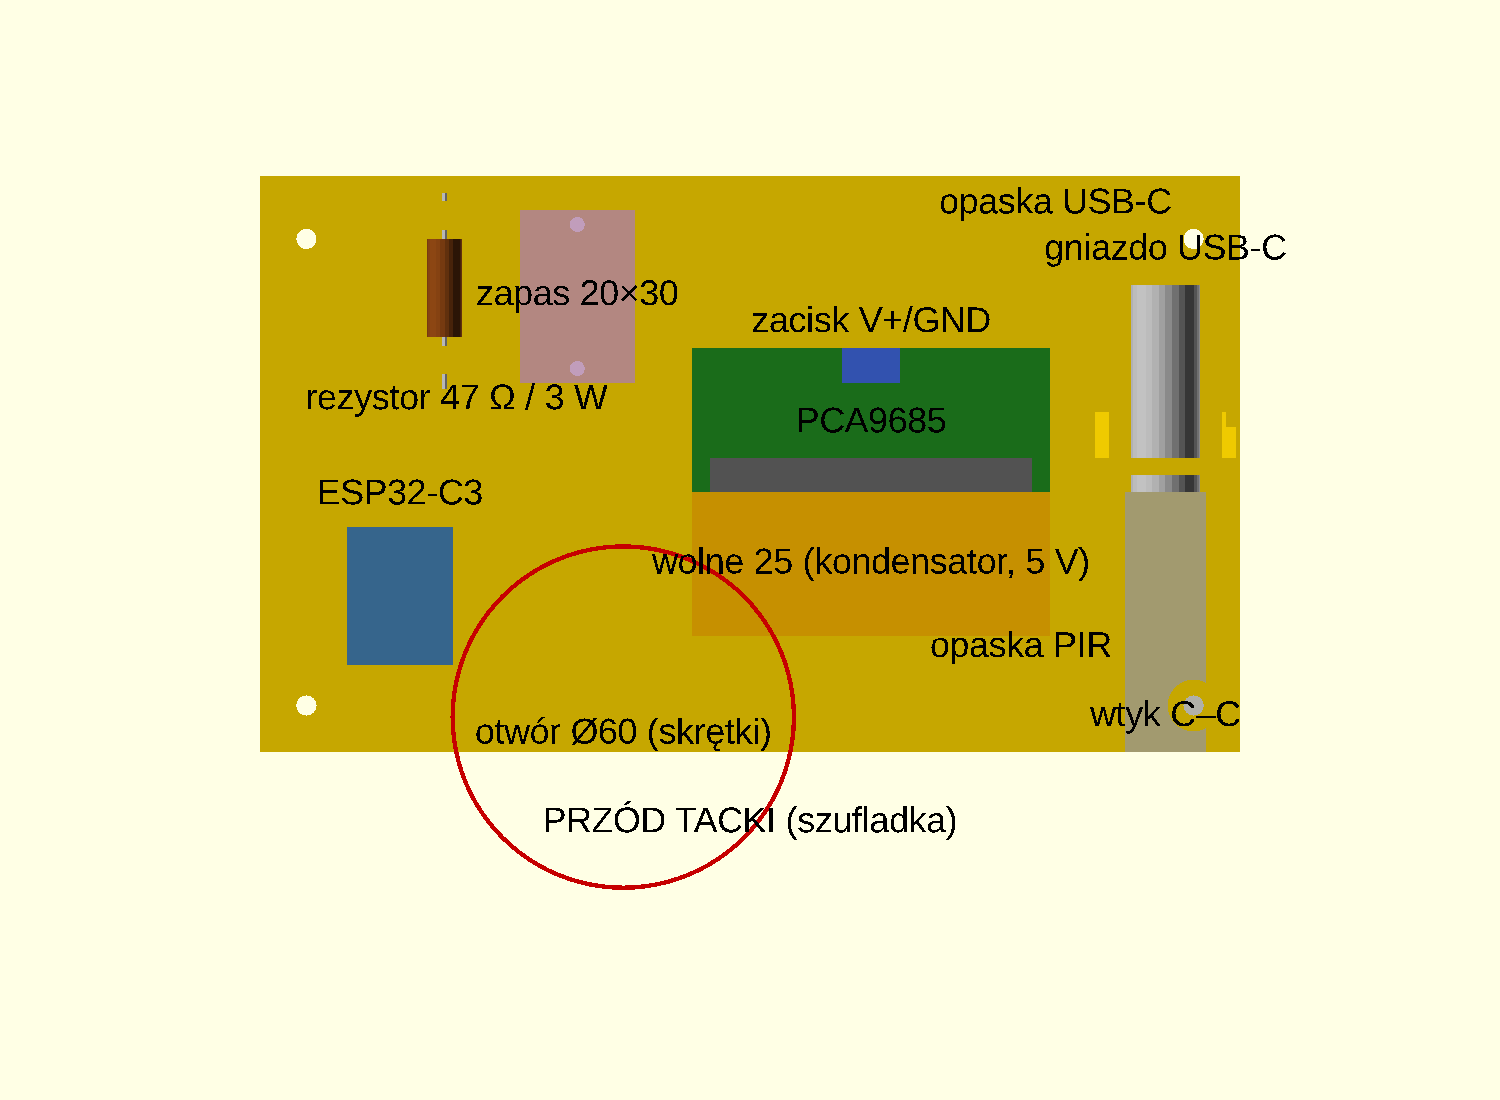
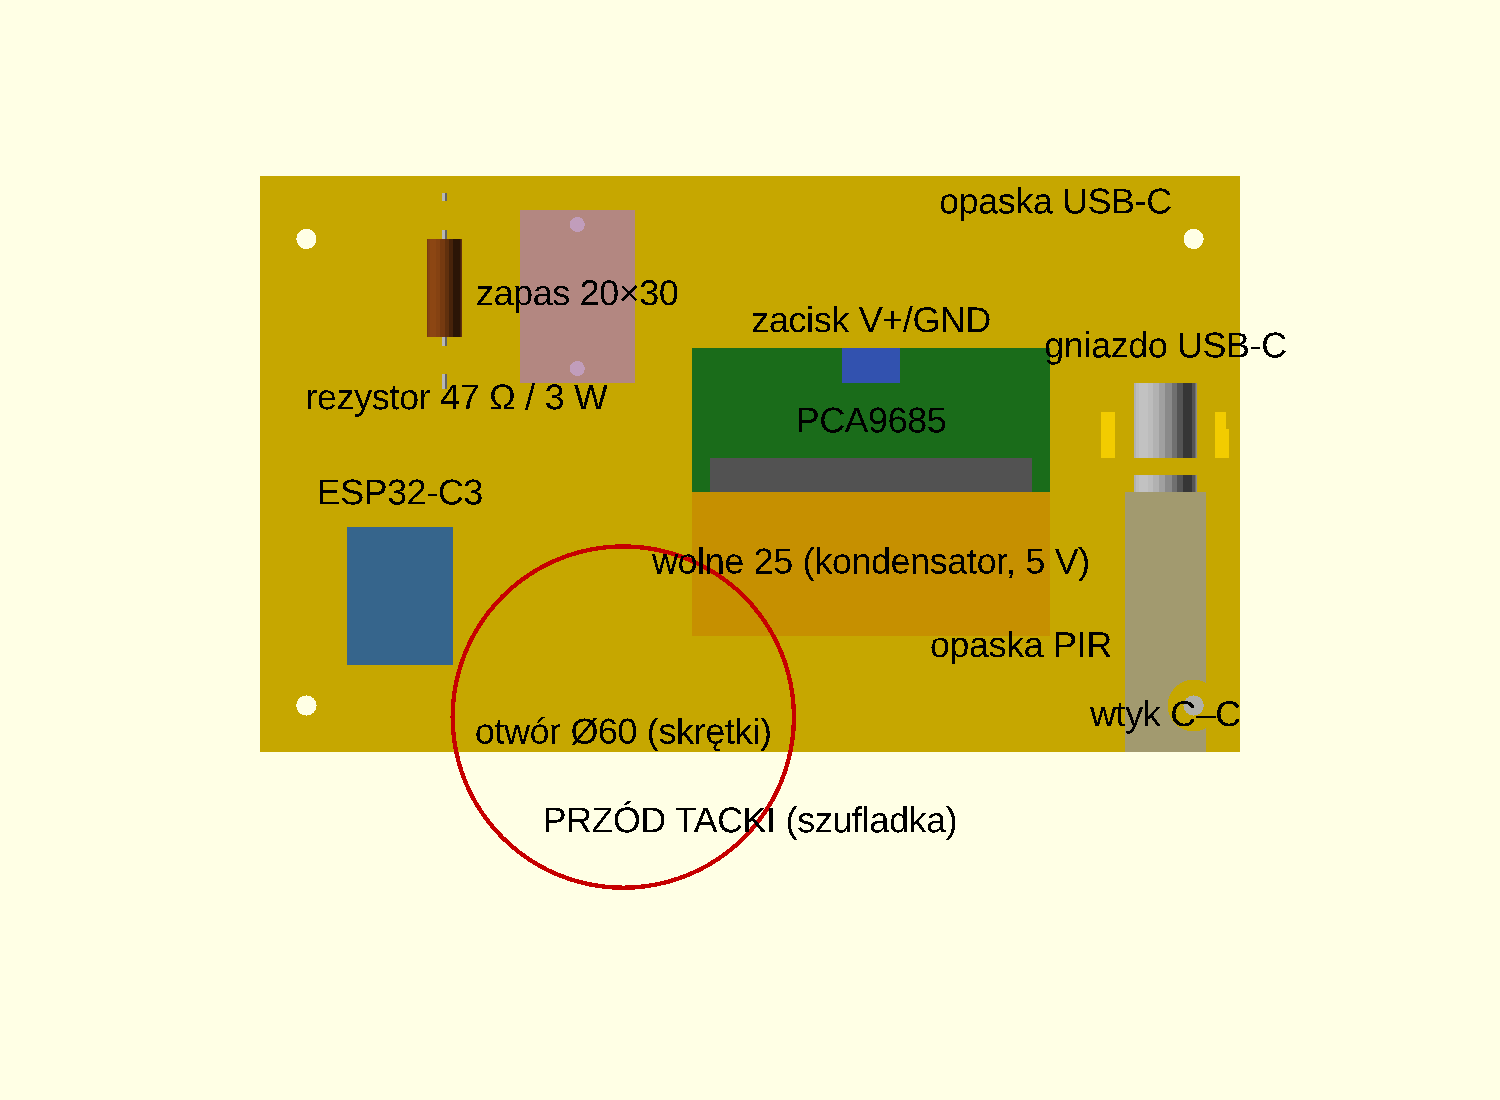
Tacka elektroniki: otwór „podwójne D” 11,3 / 10,3 pod zmierzone gniazdo USB-C (kołnierz 14, korpus 13) – tacka gotowa do druku
Siatka OK, kolizje: pusto.

Changed region(s): [[0.7053, 0.2164, 0.8587, 0.4327]]

diff --git a/20-analizy/2026-10-25-podstawka-model.md b/20-analizy/2026-10-25-podstawka-model.md
@@ -300,7 +300,7 @@ Użytkownik: „nie podobają mi się te śruby z boku za bardzo, może na takie
 
 Uwaga dla PM (agent): na zdjęciach z kamery jest też kątowy adapter USB-C (10 × 15 mm) wpięty w powerbank. Jeśli to docelowe połączenie, wtyk zajmuje dużo mniej niż przyjęte 50 mm – decyzja użytkownika (PRD).
 
-### Tacka elektroniki (kaseta) v2 (26.10) – NIE DRUKOWAĆ przed pomiarem gniazda USB-C
+### Tacka elektroniki (kaseta) v2 (26.10)
 
 Ustalenia sesji elektroniki z użytkownikiem (wiadomości do wykonawcy montażu 26.10; wcześniej tacka v1 nie była wydrukowana):
 - zasilanie z panelowego gniazda USB-C wkręcanego (okrągłe, gwint z nakrętką, gumowa zaślepka, 2 przewody z tyłu) zamiast płaskiego breakoutu;
@@ -332,3 +332,13 @@ Kontrole: siatka OK, kolizje szufladki z tacką: pusto. Wymiary płytek i gniazd
 - **ESP32-C3 z pinami w dół (elektronika 26.10, zdjęcie użytkownika: piny przylutowane w dół, wtyki Dupont od spodu):** płaską ramkę v1 zastąpiłem podstawką z 2 podpórek 10 × 16 wys. pod krótkimi krawędziami płytki. Podpórki stoją na środku, między rzędami pinów (rozstaw rzędów 15,2), więc Duponty 14 mm mieszczą się pod płytką, a przewody wychodzą w bok. Przednia podpórka (pod USB, głęb. 7) ma tunel 4,6 × 2,1 na opaskę w poprzek płytki za gniazdem USB, z dala od anteny. Tylna podpórka (głęb. 4) ma ramkę 1,5 nad płytką, więc płytka nie zjedzie do tyłu. USB-C zostaje do przodu i jest dostępne. Płytka 18,4 nad dnem tacki, do płyty zostaje ok. 20 mm. Siatka i kolizje: OK.
 - **ESP32-C3 klejony (poprawka elektroniki 26.10 na wniosek użytkownika: brak płytki stykowej, ESP przyklejony):** zamiast podpórek z opaską są 2 słupki 16 wys. z płaską górą 11 × 3 pod klej (termiczny albo CA), pod krótkimi krawędziami. Z tyłu (koniec z anteną) niski rant 1 jako ogranicznik przy klejeniu. Bez opaski i ramki. Elektronika podała górę słupka 18 × 3. Dałem 11 szer., bo przy 18 w słupek weszłyby wtyki Dupont narożnych pinów: pierwszy pin ok. 2,4 od krótkiej krawędzi, obudowa Duponta 2,54, rzędy w rozstawie 15,2. Siatka i kolizje: OK.
 - **Pomiary użytkownika 26.10 (przez elektronikę):** PCA9685 62 × 25, otwory 55,9 × 19 – zgodne z modelem. ESP32-C3: długość z gniazdem USB 24 (było 22,5), szerokość 18,4 (było 18), rozstaw rzędów 15,2 – zgodny. Model poprawiony: `espL` 24, `espW` 18,4. Przedni słupek przesunięty o 1,5 za wystające gniazdo USB (`espUsbWyst` – założenie: 24 − 22,5). Wtyki Dupont tylko na 6 pinach ESP (5V, G, 3V3 / GPIO8–10), słupki zostawiają miejsce na wszystkie. **Gniazdo USB-C wkręcane nadal niezmierzone** – jedyna blokada druku tacki.
+- **Gniazdo USB-C zmierzone (użytkownik 26.10, przez elektronikę):**
+  - gwint Ø11 z 2 ścięciami („podwójne D”), 10 w poprzek ścięć;
+  - kołnierz Ø14;
+  - od kołnierza do końca korpusu 13.
+
+  Wykonano:
+  - otwór podwójne D 11,3 / 10,3 (luz 0,15 na stronę), ścięcia u góry i u dołu: górne ścięcie to most 4,6 mm, bez podpór; na siatce otwór z 6,33…16,63 i x 151,45…162,75;
+  - ścianka 3 (elektronika: ≤ 7, zostaje gwint na nakrętkę 2–3), oś 11,5 nad spodem tacki.
+
+  Nakrętka gniazda niezmierzona: założony klucz 14, wyznacza wysokość osi. Siatka i kolizje: OK. **Tacka gotowa do druku** (A1 mini albo X1C, dnem na stół, bez podpór).

diff --git a/30-projekt/raport-montaz.md b/30-projekt/raport-montaz.md
@@ -84,7 +84,14 @@ Zmiany uzgodnione z sesją elektroniki:
 - uchwyt rezystora 3 W;
 - uchwyty opasek na skrętki i przewód PIR.
 
-Kontrole OK. **Nie drukować przed pomiarem gniazda USB-C** (gwint, grubość pod nakrętkę, nakrętka, kołnierz, korpus) oraz PCA9685 i ESP32-C3. Szczegóły: `20-analizy/2026-10-25-podstawka-model.md`, sekcja „Tacka elektroniki (kaseta) v2”.
+Kontrole OK. Po pomiarach użytkownika 26.10 doszły:
+- ESP32-C3 24 × 18,4, klejony na 2 słupkach;
+- PCA9685 zgodna z modelem;
+- otwór „podwójne D” 11,3 / 10,3 pod gniazdo USB-C;
+- rezystor 47 Ω na słupkach;
+- miejsce zapasowe 20 × 30.
+
+**Tacka gotowa do druku.** Szczegóły: `20-analizy/2026-10-25-podstawka-model.md`, sekcja „Tacka elektroniki (kaseta) v2”.
 
 ## Blokady
 
